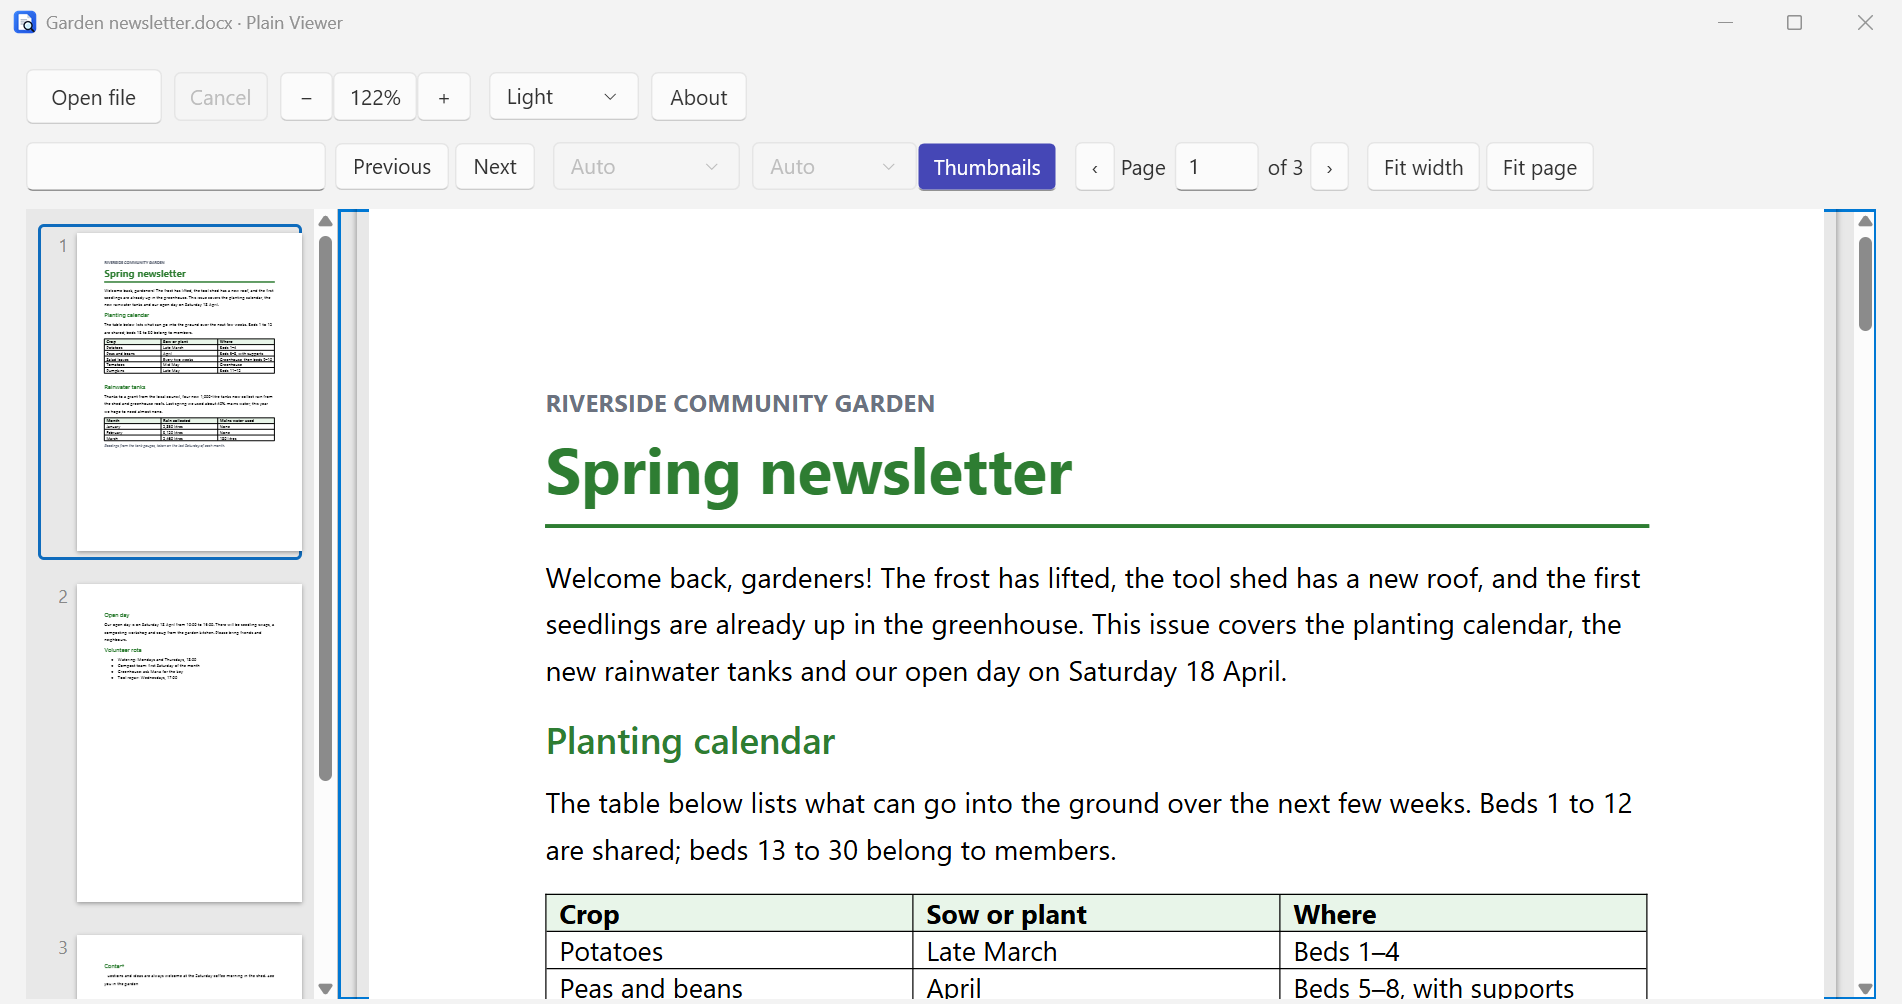
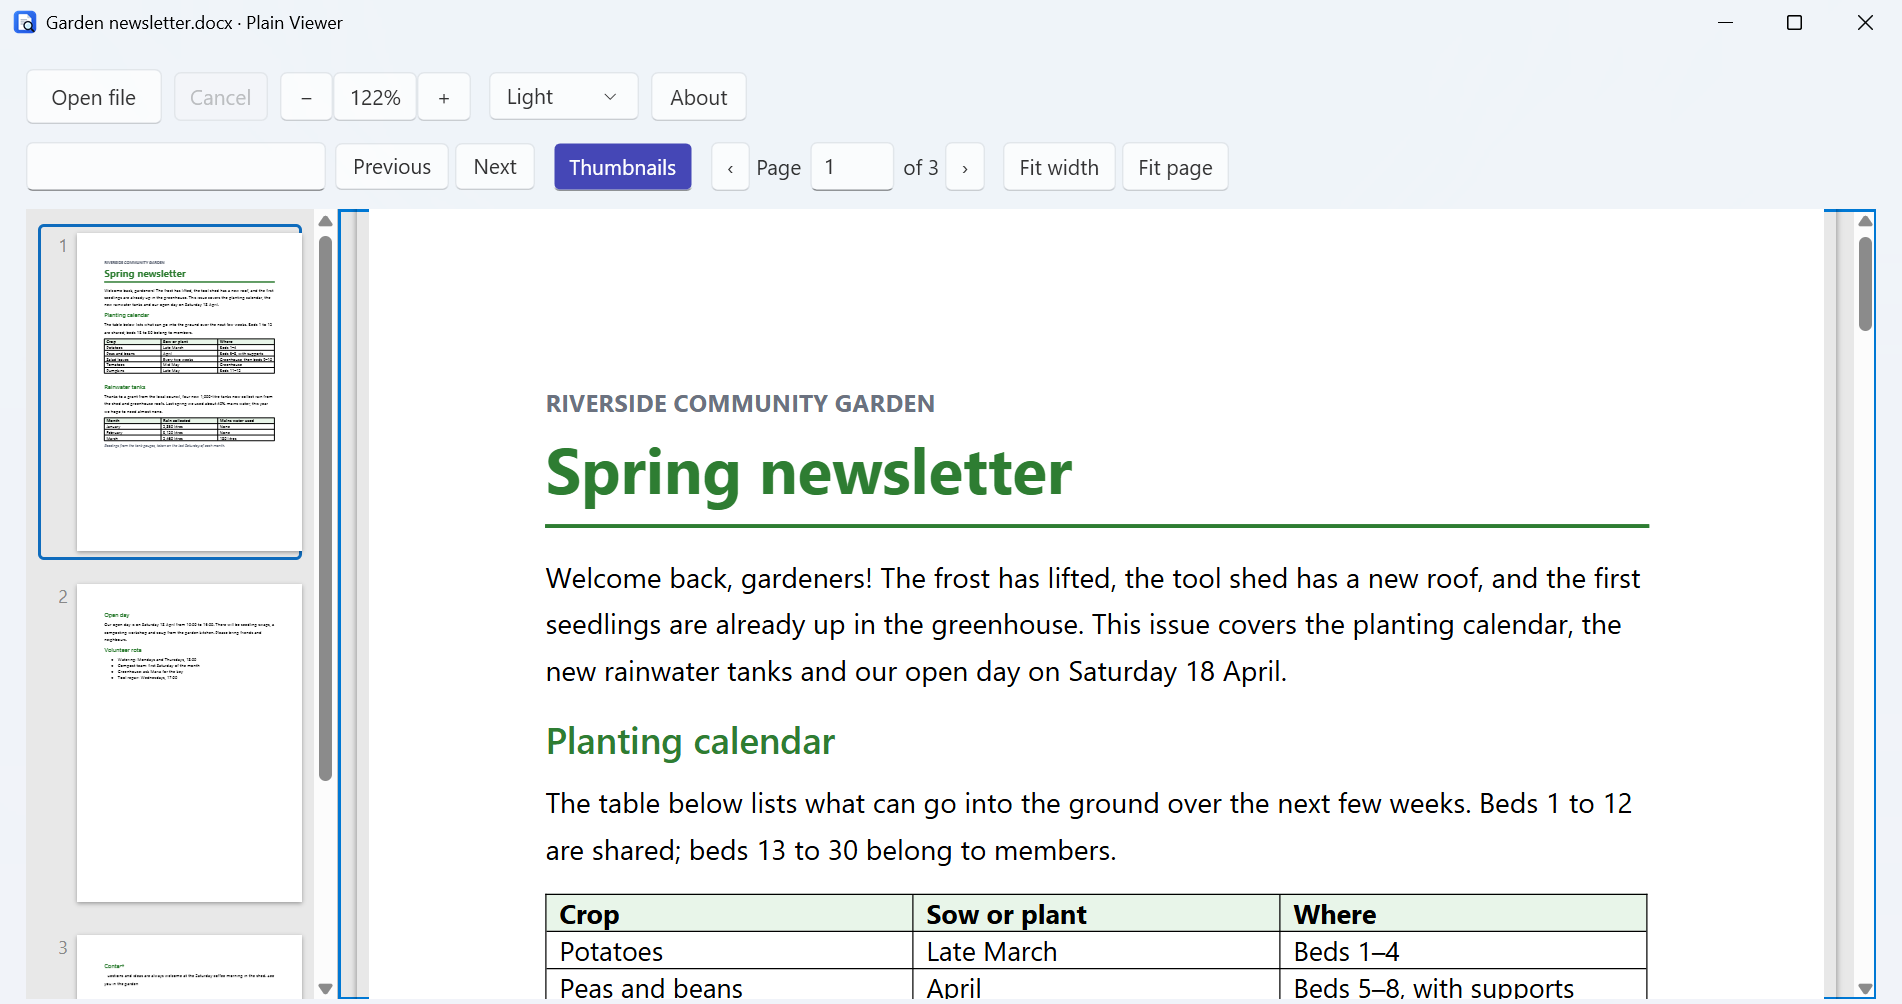
Show the encoding and delimiter lists only where they apply
They were shown disabled as 'Auto' beside PDF, Office, picture and spreadsheet views. The encoding list now appears for text, CSV, Markdown and data files and the delimiter list for CSV, and neither before a file is open (Zain's decision, DECISIONS.md D14). Screenshots retaken.

diff --git a/src/PlainViewer.App/MainWindow.xaml b/src/PlainViewer.App/MainWindow.xaml
@@ -16,8 +16,8 @@
     <Button x:Name="PreviousButton" Content="Previous" Click="PreviousMatch" Margin="0,0,4,0" />
     <Button x:Name="NextButton" Content="Next" Click="NextMatch" Margin="0,0,12,0" />
     <CheckBox x:Name="SourceToggle" Content="Markdown source" VerticalAlignment="Center" Visibility="Collapsed" Checked="ViewChanged" Unchecked="ViewChanged" Margin="0,0,12,0" />
-    <ComboBox x:Name="EncodingChoice" Width="125" SelectedIndex="0" SelectionChanged="OptionsChanged" AutomationProperties.Name="Text encoding"><ComboBoxItem>Auto</ComboBoxItem><ComboBoxItem>UTF-8</ComboBoxItem><ComboBoxItem>UTF-16 LE</ComboBoxItem><ComboBoxItem>UTF-16 BE</ComboBoxItem><ComboBoxItem>Windows-1252</ComboBoxItem></ComboBox>
-    <ComboBox x:Name="DelimiterChoice" Width="110" SelectedIndex="0" SelectionChanged="OptionsChanged" AutomationProperties.Name="CSV delimiter" Margin="8,0,0,0"><ComboBoxItem>Auto</ComboBoxItem><ComboBoxItem>Comma</ComboBoxItem><ComboBoxItem>Semicolon</ComboBoxItem><ComboBoxItem>Tab</ComboBoxItem></ComboBox>
+    <ComboBox x:Name="EncodingChoice" Width="125" Visibility="Collapsed" SelectedIndex="0" SelectionChanged="OptionsChanged" AutomationProperties.Name="Text encoding"><ComboBoxItem>Auto</ComboBoxItem><ComboBoxItem>UTF-8</ComboBoxItem><ComboBoxItem>UTF-16 LE</ComboBoxItem><ComboBoxItem>UTF-16 BE</ComboBoxItem><ComboBoxItem>Windows-1252</ComboBoxItem></ComboBox>
+    <ComboBox x:Name="DelimiterChoice" Width="110" Visibility="Collapsed" SelectedIndex="0" SelectionChanged="OptionsChanged" AutomationProperties.Name="CSV delimiter" Margin="8,0,0,0"><ComboBoxItem>Auto</ComboBoxItem><ComboBoxItem>Comma</ComboBoxItem><ComboBoxItem>Semicolon</ComboBoxItem><ComboBoxItem>Tab</ComboBoxItem></ComboBox>
     <StackPanel x:Name="PageControls" Orientation="Horizontal" Visibility="Collapsed">
      <ToggleButton x:Name="ThumbnailsToggle" Content="Thumbnails" Padding="10,6" Margin="0,0,12,0" Checked="ThumbnailsChanged" Unchecked="ThumbnailsChanged" AutomationProperties.Name="Show page thumbnails" ToolTip="Show or hide small pictures of the pages" />
      <Button x:Name="PreviousPageButton" Content="‹" Click="PreviousPage" Padding="10,6" Margin="0,0,4,0" AutomationProperties.Name="Previous page" ToolTip="Previous page" />

diff --git a/src/PlainViewer.App/MainWindow.xaml.cs b/src/PlainViewer.App/MainWindow.xaml.cs
@@ -327,13 +327,15 @@ public partial class MainWindow : Window
         }
         PageLabel.Text = document.Kind == "slides" ? "Slide" : "Page";
         System.Windows.Automation.AutomationProperties.SetName(PageBox, document.Kind == "slides" ? "Go to slide number" : "Go to page number");
-        EncodingChoice.IsEnabled = !web;
+        // Text encoding and CSV delimiter appear only where they apply (Zain's choice, DECISIONS.md D14): the encoding for
+        // text, CSV, Markdown and data files, the delimiter for CSV.
+        EncodingChoice.Visibility = web ? Visibility.Collapsed : Visibility.Visible;
+        DelimiterChoice.Visibility = document.Kind == "csv" ? Visibility.Visible : Visibility.Collapsed;
         // Page thumbnails beside PDF and Word documents, on request (slides always have their strip).
         bool documentPages = document.Kind is "pdf" or "word";
         ThumbnailsToggle.Visibility = documentPages ? Visibility.Visible : Visibility.Collapsed;
         if (documentPages && ThumbnailsToggle.IsChecked == true) WebPane.ShowThumbnails(true);
-        if (web) { DelimiterChoice.IsEnabled = false; lastQuery = ""; matchIndex = -1; WebPane.FocusDocument(); return; }
-        DelimiterChoice.IsEnabled = document.Kind == "csv";
+        if (web) { lastQuery = ""; matchIndex = -1; WebPane.FocusDocument(); return; }
         if (document.Kind is "csv" or "lines")
         {
             // Large plain text shows one line per row, with line numbers as row headers.

diff --git a/docs/DECISIONS.md b/docs/DECISIONS.md
@@ -25,6 +25,7 @@ Use a hybrid renderer: Markdig for Markdown syntax mapped to safe native display
 | D11 | HEIC/HEIF photos: decoded by Windows' own HEIF codec (WIC, through WPF) inside the low-integrity worker, which writes a PNG for the picture view; no decoder bundled | Implemented 29 Sep 2026 (0.4.0) | WebView2 cannot decode HEIC. Bundling a decoder (for example libheif with libde265) would add LGPL code and the HEVC patent-licensing question to the installer; Windows' codec avoids both, and the user gets it from Microsoft ("HEIF Image Extensions" and "HEVC Video Extensions", Microsoft Store; the HEVC one may cost a small fee). Without it the photo is refused with a message naming both. The codec parses the untrusted file only inside the worker (low integrity, Job Object memory and time limits); only the Windows HEIF decoder is accepted (checked by its container format), and the app re-checks the PNG before showing it |
 | D12 | Excel pictures and charts: pictures stored in the workbook are identified by their bytes and written by the worker to the work folder; charts are drawn as SVG in the grid page from the values cached in the chart part | Implemented 29 Sep 2026 (0.4.0) | Keeps "saved values only": chart data is never recalculated from cells. Pictures are served to the page from the document host only under names the worker may use (`media-<sheet>-<n>.<type>`), re-identified by the app before serving; the page's CSP allows images from that host only. Linked pictures (`r:link`) are counted and never resolved |
 | D13 | Windows 10 support: postponed; installers stay Windows 11 only | Postponed (Zain, 30 Sep 2026: "skip Windows 10 for now") | Zain asked for Windows 10 support. A clean Windows 10 22H2 test machine (scripts/win10-vm-test.ps1: Microsoft's image, Hyper-V, no network) showed that the installer, firewall rules, "Open with", WebView2 and uninstall work, but the app does not start: .NET 10 stops it with "Your Windows doesn't fully support CET. Please install all available Windows updates." .NET 9+ marks apps compatible with CET (hardware shadow stacks, a protection against return-oriented exploits), and that Windows 10 build lacks the support. Zain chose to keep CET (not `<CETCompat>false</CETCompat>`) and require an updated Windows 10. Verifying with the October 2025 cumulative update (KB5066791, downloaded and checked, SHA-1 3210d264...44c8) could not run because the PC lacked free memory for the virtual machine. To resume: run `win10-vm-test.ps1 -Update <that .msu>`; if it passes, allow build 19045 with a minimum update level in the installer and document it |
+| D14 | The text encoding and CSV delimiter lists are hidden where they do not apply, instead of shown disabled | Accepted (Zain, 30 Sep 2026) | The specification says to disable unavailable controls with an accessible explanation. Zain chose to hide these two: shown disabled as "Auto" beside PDF, Office, picture and spreadsheet views they looked broken, and they never apply there. The encoding list shows for text, CSV, Markdown and data files, the delimiter list for CSV only; neither shows before a file is open. Other unavailable controls (for example search for pictures) stay disabled with their explanation |
 
 ## Engine per format
 

diff --git a/docs/RELEASE-NOTES.md b/docs/RELEASE-NOTES.md
@@ -1,5 +1,9 @@
 # Release notes
 
+## Next version (not yet released)
+
+- A tidier toolbar: the text encoding and CSV delimiter lists appear only for files they apply to (the encoding for text, CSV, Markdown and data files; the delimiter for CSV), instead of greyed out everywhere else.
+
 ## 0.5.0 — beta: pictures and charts in .xls and .ods (September 2026)
 
 Install over any earlier beta; nothing needs uninstalling first.
